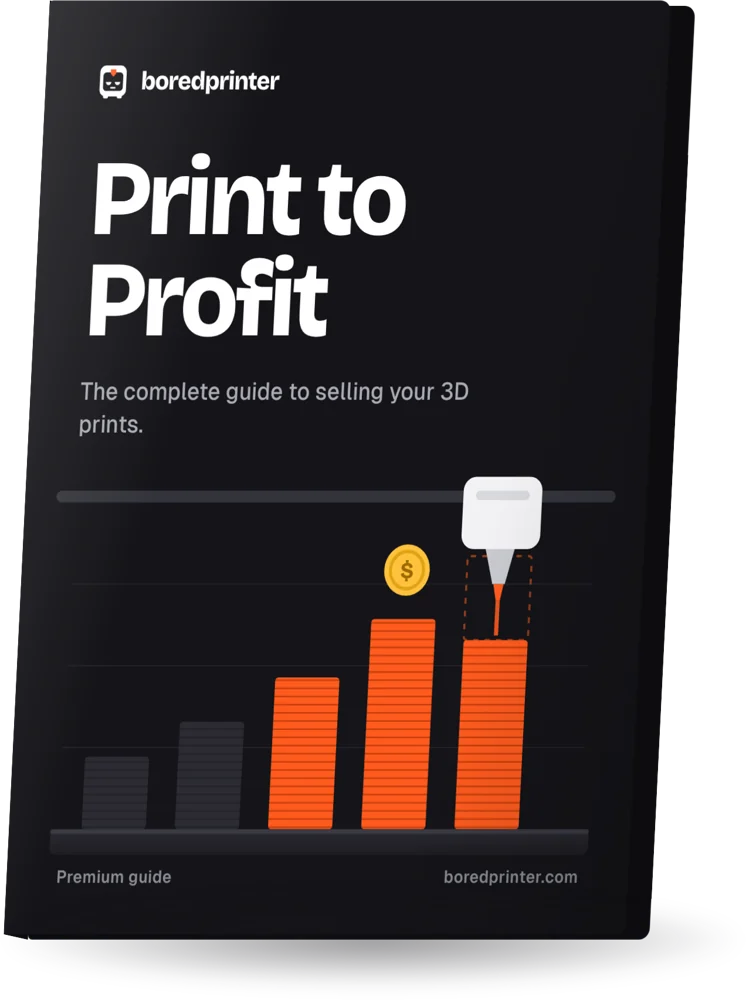
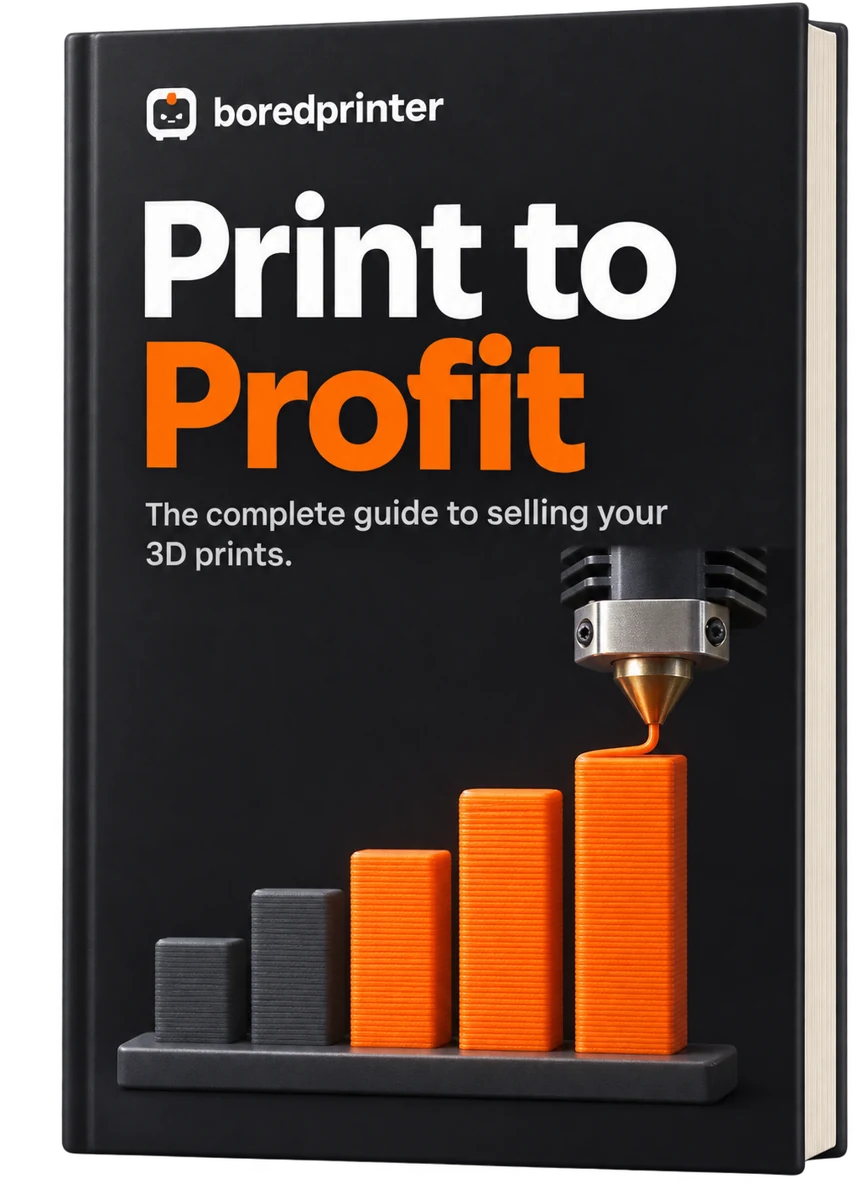
Use new Print to Profit cover image
Claude-Session: https://claude.ai/code/session_01CR7aiKgy5GxxkevsXufwus

diff --git a/public/index.html b/public/index.html
@@ -38,7 +38,7 @@
 <div class="ctas"><a class="btn or big" href="/guides/print-to-profit">Get Print to Profit · $29</a><a class="btn ghost big" href="/guides/how-to-make-money-with-a-3d-printer">Read the free guide</a></div>
 <ul class="trust"><li><svg viewBox="0 0 24 24" width="20" height="20" fill="none" stroke="currentColor" stroke-width="2.6" stroke-linecap="round" stroke-linejoin="round" aria-hidden="true"><path d="M5 12.5l4.5 4.5L19 7.5"/></svg><span><b>15k</b> follow <a href="https://www.instagram.com/boredprinter/" rel="noopener">@boredprinter</a></span></li><li><svg viewBox="0 0 24 24" width="20" height="20" fill="none" stroke="currentColor" stroke-width="2.6" stroke-linecap="round" stroke-linejoin="round" aria-hidden="true"><path d="M5 12.5l4.5 4.5L19 7.5"/></svg><span>14-day money-back guarantee</span></li><li><svg viewBox="0 0 24 24" width="20" height="20" fill="none" stroke="currentColor" stroke-width="2.6" stroke-linecap="round" stroke-linejoin="round" aria-hidden="true"><path d="M5 12.5l4.5 4.5L19 7.5"/></svg><span>Read on your phone, instant access</span></li></ul>
 </div>
-<img class="bookimg" src="/img/book-playbook.webp" alt="Print to Profit guide cover" width="746" height="1000" fetchpriority="high">
+<img class="bookimg" src="/img/book-playbook.webp" alt="Print to Profit guide cover" width="857" height="1200" fetchpriority="high">
 </div></section>
 
 <section class="sec alt"><div class="wrap pain">
@@ -58,7 +58,7 @@
 </div></section>
 
 <section class="sec"><div class="wrap"><div class="offer">
-<div class="offer-img"><img class="bookimg" src="/img/book-playbook.webp" alt="Print to Profit guide cover" width="746" height="1000" fetchpriority="high"></div>
+<div class="offer-img"><img class="bookimg" src="/img/book-playbook.webp" alt="Print to Profit guide cover" width="857" height="1200" fetchpriority="high"></div>
 <div>
 <h2>Print to Profit</h2>
 <p class="lead" style="margin-top:12px">The complete guide to selling your 3D prints.</p>

diff --git a/site/pdf/og.html b/site/pdf/og.html
@@ -11,4 +11,4 @@ p{font-size:28px;color:#5E6169;margin:26px 0 0;font-weight:500}
 .g{position:absolute;left:28px;right:28px;bottom:28px;display:grid;grid-template-columns:repeat(6,1fr);gap:5px}.g s{aspect-ratio:1;border-radius:3px;background:#2A2A31}.g s:nth-child(3n){background:#FF5B1F}
 </style></head><body><div class="l"><div class="lg"><svg viewBox="0 0 64 64"><rect x="15" y="54" width="9" height="6" rx="2" fill="#1A1918"/><rect x="40" y="54" width="9" height="6" rx="2" fill="#1A1918"/><rect x="8" y="7" width="48" height="50" rx="11" fill="#1A1918"/><rect x="14" y="18" width="36" height="30" rx="6" fill="#FFF8F1"/><path d="M27 13h10v7l-5 5-5-5z" fill="#FF5B1F"/><path d="M19 33.5h10a5 5 0 0 1-10 0z" fill="#1A1918"/><path d="M35 33.5h10a5 5 0 0 1-10 0z" fill="#1A1918"/><path d="M28.5 43h7" stroke="#1A1918" stroke-width="2.6" stroke-linecap="round"/></svg>boredprinter</div>
 <h1>Turn your 3D printer into a <span>side income.</span></h1><p>Step-by-step guides · Free price calculator</p></div>
-<div class="r"><img src="../../public/img/book-playbook.webp" style="position:absolute;right:40px;top:30px;height:570px"></div></body></html>
+<div class="r"><img src="../../public/img/book-playbook.webp" style="position:absolute;right:50px;top:20px;height:590px"></div></body></html>

diff --git a/public/guides/print-to-profit.html b/public/guides/print-to-profit.html
@@ -32,7 +32,7 @@
 </div></header>
 <main id="main">
 <section class="phero"><div class="wrap">
-<img class="bookimg" src="/img/book-playbook.webp" alt="Print to Profit guide cover" width="746" height="1000" fetchpriority="high">
+<img class="bookimg" src="/img/book-playbook.webp" alt="Print to Profit guide cover" width="857" height="1200" fetchpriority="high">
 <div>
 <nav class="crumbs" aria-label="Breadcrumb"><a href="/">Home</a> / <a href="/guides">Guides</a> / <span>Premium</span></nav>
 <h1 style="margin-top:18px;font-size:clamp(34px,5vw,54px)">Print to Profit</h1>

diff --git a/tools/build.py b/tools/build.py
@@ -99,7 +99,8 @@ def cover(prod_key, cls=""):
     g = next(x for x in PREM if x["product"] == prod_key)
     alt = e(g["h1"]) + " guide cover"
     if cls == "book" or cls == "":
-        return f'<img class="bookimg" src="/img/book-{prod_key}.webp" alt="{alt}" width="746" height="1000" fetchpriority="high">'
+        w, h = (857, 1200) if prod_key == "playbook" else (746, 1000)
+        return f'<img class="bookimg" src="/img/book-{prod_key}.webp" alt="{alt}" width="{w}" height="{h}" fetchpriority="high">'
     return f'<img class="coverimg" src="/img/cover-{prod_key}.webp" alt="{alt}" width="600" height="800">'
 
 def buy_btn(key, cls="btn or big wide"):
